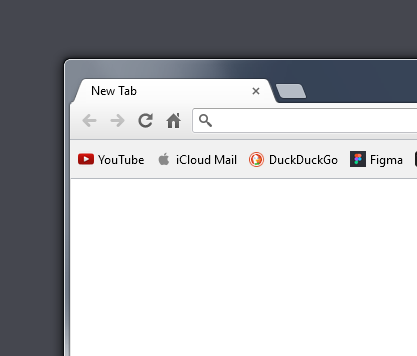
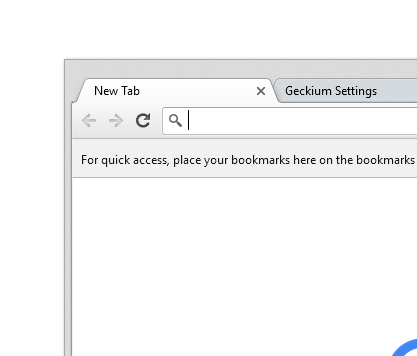
68.

diff --git a/Profile Folder/chrome/styles/partials/chrome/chrome-68/_systhemes.scss b/Profile Folder/chrome/styles/partials/chrome/chrome-68/_systhemes.scss
@@ -1,7 +1,6 @@
 & {
 	//Classic (Default/Fallback), Mac OS X, macOS, Chromium OS
 	// Titlebar
-	// TODO: Make EVERYTHING here start with --default... also just change how the --* vs --default* logic works, to be more Mozilla-like.
 	--default-titlebar-active: rgb(204,204,204);
 	--default-titlebar-inactive: rgb(245,245,245);
 	--default-titlebar-background: rgb(204,204,204);
@@ -9,23 +8,23 @@
 	--default-titlebar-foreground-inactive: black;
 
 	// Tabs
-	// TODO: TABS HAVE A DIFFERENT BACKGROUND COLOUR IN NON-NATIVE CLASSIC - THIS IS NATIVE'S ONE
-	--default-inactive-tab-background: rgb(211, 217, 225, 0.8);
+	--default-inactive-tab-background-native: rgb(211, 217, 225, 0.8); //FIXME: Is it not opaque in native too staring MD1?
 	--default-inactive-tab-background: #cfcfcf;
 	--default-selected-tab-background: var(--default-nav-bar);
 	--default-tabbrowser-tab-color: black;
 
 	// Navbar
 	--default-nav-bar: rgb(242,242,242);
-	--toolbarbutton-background-hot: rgba(0,0,0,.09);
-	--toolbarbutton-background-pressed: rgba(0,0,0,.18);
+	--default-toolbarbutton-background-hot: rgba(0,0,0,.09);
+	--default-toolbarbutton-background-pressed: rgba(0,0,0,.18);
 	--default-toolbarbutton-icon-fill: #5a5a5a;
+	--default-bookmark-icon-fill: rgb(66,133,244);
 
 	// Personal Toolbar (Bookmarks)
 	--default-personal-toolbar: var(--default-nav-bar);
-	--personal-toolbar-item-hover-bg: rgba(0,0,0,.08);
-	--personal-toolbar-item-active-bg: rgba(0,0,0,.16);
-	--bookmark-item-hover-color: black;
+	--default-personal-toolbar-item-hover-bg: rgba(0,0,0,.08);
+	--default-personal-toolbar-item-active-bg: rgba(0,0,0,.16);
+	--default-bookmark-item-hover-color: black;
 
 	@mixin dark {
 		// Titlebar
@@ -61,22 +60,35 @@
 
 	// GTK+ (rest in peace, icon set icons on toolbar)
 	&[gksystheme="gtk"]:not([lwtheme], [gkchrthemed]) {
+		// Titlebar (now flattened like in ~59)
+		--default-titlebar-active: ActiveCaption;
+        --default-titlebar-inactive: InactiveCaption;
+
 		// Tabs
+		--default-inactive-tab-background: -moz-dialog;
 		--default-selected-tab-background: var(--default-nav-bar);
-		--default-tab-glare: rgb(211, 217, 225, 0.45); //TODO
+		--default-tabbrowser-tab-color: FieldText;
+		--default-tabbrowser-tab-color-inactive: -moz-dialogtext;
 
 		// Navbar
-		--default-nav-bar: -moz-dialog;
-		--toolbarbutton-background-hot: color-mix(in srgb, -moz-dialogtext 9%, transparent); //TODO: verify
-		--toolbarbutton-background-pressed: color-mix(in srgb, -moz-dialogtext 18%, transparent); //TODO: verify
-		--default-toolbarbutton-icon-fill: -moz-dialogtext;
+		--default-nav-bar: Field;
+		--default-toolbarbutton-background-hot: color-mix(in srgb, FieldText 9%, transparent); //TODO: verify
+		--default-toolbarbutton-background-pressed: color-mix(in srgb, FieldText 18%, transparent); //TODO: verify
+		--default-toolbarbutton-icon-fill: FieldText;
+		--default-bookmark-icon-fill: AccentColor;
 
 		// Personal Toolbar (Bookmarks)
 		--default-personal-toolbar: var(--default-nav-bar);
-		--personal-toolbar-item-hover-bg: color-mix(in srgb, -moz-dialogtext 8%, transparent); //TODO: verify
-		--personal-toolbar-item-active-bg: color-mix(in srgb, -moz-dialogtext 16%, transparent); //TODO: verify
-		--bookmark-item-hover-color: -moz-dialogtext;
-		--default-bookmark-item-color: -moz-dialogtext;
+		--default-personal-toolbar-item-hover-bg: color-mix(in srgb, FieldText 8%, transparent); //TODO: verify
+		--default-personal-toolbar-item-active-bg: color-mix(in srgb, FieldText 16%, transparent); //TODO: verify
+		--default-bookmark-item-hover-color: FieldText;
+		--default-bookmark-item-color: FieldText;
+
+		&[privatebrowsingmode="temporary"] {
+			// Titlebar (now flattened like in ~59)
+			--default-titlebar-active: var(--incognito-active);
+			--default-titlebar-inactive: var(--incognito-inactive);
+		}
 	}
 
 	// Geckium You

diff --git a/Profile Folder/chrome/styles/partials/chrome/chrome-68/titlebar/buttons/_chromiumos.scss b/Profile Folder/chrome/styles/partials/chrome/chrome-68/titlebar/buttons/_chromiumos.scss
@@ -1,0 +1,49 @@
+& { // TODO: Exclude in MD2
+	//Shared non-native titlebar variables
+	// TODO when SVG'd
+	
+	//Shared titlebar button code
+	.titlebar-button {
+		background: transparent !important;
+		//Hover and pressed states
+		&:not([disabled]):hover {
+			background: rgba(20, 20, 23, 0.078) !important;
+		}
+		&:not([disabled]):hover:active {
+			background: rgba(20, 20, 23, 0.141) !important;
+		}
+		height: 36px;
+		width: 30px;
+	}
+	// Decrease button height when maximised
+	&[sizemode="maximized"],
+	&[sizemode="fullscreen"] {
+		.titlebar-button {
+			height: 28px;
+		}
+	}
+
+	//Close button
+	.titlebar-close {
+		list-style-image: url(chrome://userchrome/content/assets/img/chrome-47/titlebar/cros/close.png) !important; // PLACEHOLDER
+		border-top-right-radius: unset !important;
+	}
+	&:-moz-locale-dir(rtl) {
+		.titlebar-close {
+			border-top-right-radius: unset !important;
+		}
+	}
+
+	//Maximise and Restore buttons
+	.titlebar-max {
+		list-style-image: url(chrome://userchrome/content/assets/img/chrome-47/titlebar/cros/maximize.png) !important; // PLACEHOLDER
+	}
+	.titlebar-restore {
+		list-style-image: url(chrome://userchrome/content/assets/img/chrome-47/titlebar/cros/maximize.png) !important; // PLACEHOLDER
+	}
+
+	//Minimise button
+	.titlebar-min {
+		list-style-image: url(chrome://userchrome/content/assets/img/chrome-47/titlebar/cros/minimize.png) !important; // PLACEHOLDER
+	}
+}

diff --git a/Profile Folder/chrome/styles/partials/chrome/chrome-68/_toolbars.scss b/Profile Folder/chrome/styles/partials/chrome/chrome-68/_toolbars.scss
@@ -38,7 +38,7 @@
 			width: 0;
 			height: 0;
 			border-radius: 50% !important;
-			background: var(--toolbarbutton-background-hot) !important;
+			background: var(--toolbarbutton-background-hot, var(--default-toolbarbutton-background-hot)) !important;
 			transition: width 150ms, height 150ms, opacity 150ms !important;
 		}
 	
@@ -48,7 +48,7 @@
 	
 		&:not([disabled]) {
 			&:hover {
-				background: var(--toolbarbutton-background-hot) !important;
+				background: var(--toolbarbutton-background-hot, var(--default-toolbarbutton-background-hot)) !important;
 				
 				&::before {
 					opacity: 0;
@@ -105,13 +105,9 @@
 
 	.bookmark-item:not(.menu-iconic, .menuitem-iconic) {
 		&:active {
-			background: var(--personal-toolbar-item-active-bg) !important;
+			background: var(--personal-toolbar-item-active-bg, var(--default-personal-toolbar-item-active-bg)) !important;
 
 			transition: background-color 100ms linear !important;
-		}
-
-		&::before {
-			content: unset
 		}
 
 		border: 0;
@@ -125,7 +121,7 @@
 #star-button-box {
 	#star-button {
 		&[starred="true"] {
-			fill: rgb(66,133,244) !important;
+			fill: var(--default-bookmark-icon-fill) !important;
 		}
 	}
 }

diff --git a/Profile Folder/chrome/styles/partials/chrome/chrome-68/_toolbarbutton-icons.scss b/Profile Folder/chrome/styles/partials/chrome/chrome-68/_toolbarbutton-icons.scss
@@ -25,12 +25,12 @@
 
 	&:not([disabled]) {
 		&:hover {
-			background-color: var(--toolbarbutton-background-hot) !important;
+			background-color: var(--toolbarbutton-background-hot, var(--default-toolbarbutton-background-hot)) !important;
 		}
 
 		&:active,
 		&[open] {
-			background-color: var(--toolbarbutton-background-pressed) !important;
+			background-color: var(--toolbarbutton-background-pressed, var(--default-toolbarbutton-background-pressed)) !important;
 		}
 	}
 }

diff --git a/Profile Folder/chrome/styles/partials/chrome/chrome-68/_titlebar.scss b/Profile Folder/chrome/styles/partials/chrome/chrome-68/_titlebar.scss
@@ -16,4 +16,18 @@
 		margin-inline-end: 1px !important;
 		align-items: center !important;
 	}
+
+	// Updated titlebar styles
+	&[chromemargin]:not([macOSNativeFullscreen]) {
+		// Chromium OS
+		&[gktitstyle="chromiumos"] {
+			@import "titlebar/borders/chromiumos";
+		}
+	}
+
+	// Updated titlebutton styles
+	// Chromium OS
+	&[gktitbuttons="chromiumos"] {
+		@import "titlebar/buttons/chromiumos";
+	}
 }

diff --git a/Profile Folder/chrome/styles/partials/chrome/chrome-68/_tabs.scss b/Profile Folder/chrome/styles/partials/chrome/chrome-68/_tabs.scss
@@ -1,5 +1,4 @@
 & {
-	--tab-distance-from-titlebar-maximized: 0;
 	--tab-width: 192px;
 	--tab-height: 30px;
 	--tab-sides-width: 14px;
@@ -46,4 +45,9 @@
 	&[image="chrome://branding/content/icon32.png"] {
 		--tab-gap-between-favicon-and-title: 0;
 	}
+}
+
+#tabbrowser-tabs {
+	// Remove the spacing counteract as it's no longer necessary
+	margin-top: unset !important;
 }

diff --git a/Profile Folder/chrome/styles/partials/chrome/chrome-47/titlebar/buttons/_chromiumos.scss b/Profile Folder/chrome/styles/partials/chrome/chrome-47/titlebar/buttons/_chromiumos.scss
@@ -76,6 +76,7 @@
 	//Close button
 	.titlebar-close {
 		list-style-image: url(chrome://userchrome/content/assets/img/chrome-47/titlebar/cros/close.png) !important;
+		order: 2 !important;
 		border-top-right-radius: var(--titlebar-border-radius) !important; // Ensure it doesn't overlay the border
 	}
 	&:-moz-locale-dir(rtl) { // Swap corners in RTL

diff --git a/Profile Folder/chrome/styles/partials/chrome/chrome-1/_urlbar-searchbar.scss b/Profile Folder/chrome/styles/partials/chrome/chrome-1/_urlbar-searchbar.scss
@@ -781,7 +781,7 @@
 /*
 	GTK+ SysTheme - exclusive urlbar styling
 */
-[gksystheme="gtk"]:not([lwtheme], [gkchrthemed]) {
+[gksystheme="gtk"]:not([lwtheme], [gkchrthemed], [geckium-sixtyeight]) {
 	#urlbar-container {
 		&::before {
 			-moz-default-appearance: textarea;

diff --git a/Profile Folder/chrome/styles/partials/chrome/chrome-68/titlebar/borders/_chromiumos.scss b/Profile Folder/chrome/styles/partials/chrome/chrome-68/titlebar/borders/_chromiumos.scss
@@ -1,0 +1,7 @@
+//NOTE: This border style ignores native titlebars
+
+& {
+    --titlebar-border-radius: 0;
+	--tab-distance-from-top: 8px;
+	--tab-distance-from-top-maximised: 0;
+}
